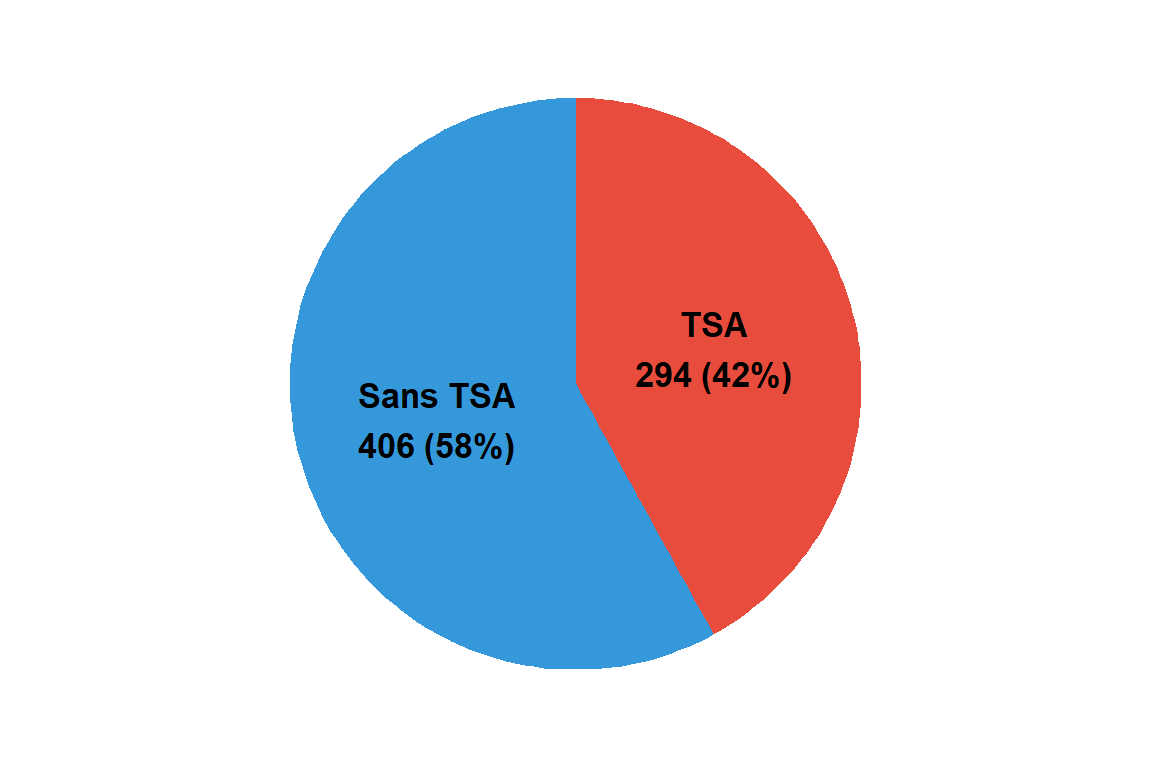
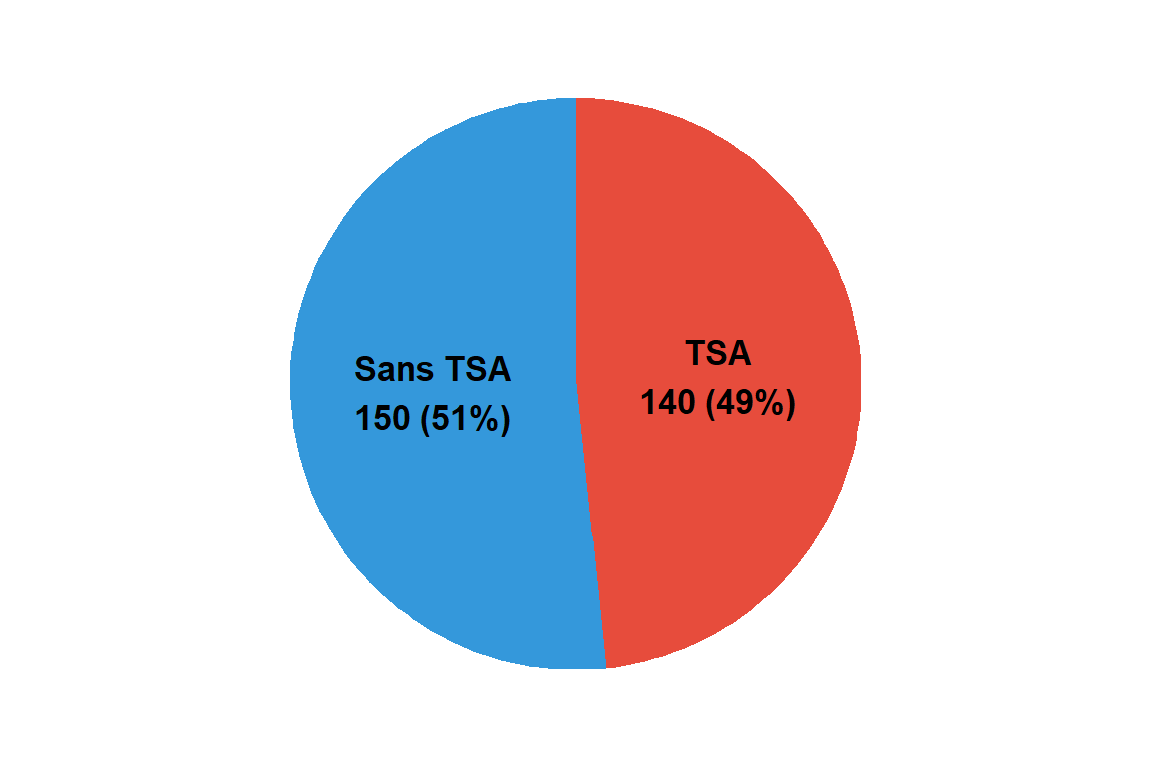
updates

Changed region(s): [[0.5, 0.5, 0.625, 0.875], [0.3125, 0.4375, 0.4688, 0.5938], [0.5312, 0.4062, 0.6875, 0.5625]]

diff --git a/docs/index.html b/docs/index.html
@@ -217,7 +217,7 @@ pre > code.sourceCode > span > a:first-child::before { text-decoration: underlin
 <section id="données-analysées" class="level3"><h3 class="anchored" data-anchor-id="données-analysées">📁 Données Analysées</h3>
 <ul>
 <li>
-<strong>688 observations</strong> après nettoyage</li>
+<strong>292 observations</strong> après nettoyage</li>
 <li>
 <strong>10 questions</strong> AQ-10 comportementales</li>
 <li>
@@ -345,7 +345,7 @@ pre > code.sourceCode > span > a:first-child::before { text-decoration: underlin
 </section><section id="rapport-complet" class="level3 g-col-12 g-col-md-3"><h3 class="anchored" data-anchor-id="rapport-complet"><a href="./rapport.html">📊 Rapport Complet</a></h3>
 <p>Documentation scientifique détaillée avec méthodologie, résultats et discussions.</p>
 </section><section id="présentation" class="level3 g-col-12 g-col-md-3"><h3 class="anchored" data-anchor-id="présentation"><a href="./presentation.html">🎤 Présentation</a></h3>
-<p>Slides professionnels (47 pages) pour présenter le projet.</p>
+<p>Slides professionnels (12 pages) pour présenter le projet.</p>
 </section><section id="ℹ-à-propos" class="level3 g-col-12 g-col-md-3"><h3 class="anchored" data-anchor-id="ℹ-à-propos"><a href="./about.html">ℹ À propos</a></h3>
 <p>Méthodologie, références bibliographiques et considérations éthiques.</p>
 </section>
@@ -906,7 +906,7 @@ pre > code.sourceCode > span > a:first-child::before { text-decoration: underlin
 <span id="cb1-29"><a href="#cb1-29" aria-hidden="true" tabindex="-1"></a>::: {.g-col-12 .g-col-md-6}</span>
 <span id="cb1-30"><a href="#cb1-30" aria-hidden="true" tabindex="-1"></a><span class="fu">### 📁 Données Analysées</span></span>
 <span id="cb1-31"><a href="#cb1-31" aria-hidden="true" tabindex="-1"></a></span>
-<span id="cb1-32"><a href="#cb1-32" aria-hidden="true" tabindex="-1"></a><span class="ss">- </span>**688 observations** après nettoyage</span>
+<span id="cb1-32"><a href="#cb1-32" aria-hidden="true" tabindex="-1"></a><span class="ss">- </span>**292 observations** après nettoyage</span>
 <span id="cb1-33"><a href="#cb1-33" aria-hidden="true" tabindex="-1"></a><span class="ss">- </span>**10 questions** AQ-10 comportementales</span>
 <span id="cb1-34"><a href="#cb1-34" aria-hidden="true" tabindex="-1"></a><span class="ss">- </span>**Variables démographiques** (âge, antécédents)</span>
 <span id="cb1-35"><a href="#cb1-35" aria-hidden="true" tabindex="-1"></a><span class="ss">- </span>**Classes équilibrées** : 42% TSA, 58% Sans TSA</span>
@@ -920,8 +920,8 @@ pre > code.sourceCode > span > a:first-child::before { text-decoration: underlin
 <span id="cb1-43"><a href="#cb1-43" aria-hidden="true" tabindex="-1"></a><span class="co"># Données de démonstration</span></span>
 <span id="cb1-44"><a href="#cb1-44" aria-hidden="true" tabindex="-1"></a>demo_data <span class="ot">&lt;-</span> <span class="fu">data.frame</span>(</span>
 <span id="cb1-45"><a href="#cb1-45" aria-hidden="true" tabindex="-1"></a>  <span class="at">Diagnostic =</span> <span class="fu">c</span>(<span class="st">"Sans TSA"</span>, <span class="st">"TSA"</span>),</span>
-<span id="cb1-46"><a href="#cb1-46" aria-hidden="true" tabindex="-1"></a>  <span class="at">Nombre =</span> <span class="fu">c</span>(<span class="dv">406</span>, <span class="dv">294</span>),</span>
-<span id="cb1-47"><a href="#cb1-47" aria-hidden="true" tabindex="-1"></a>  <span class="at">Pourcentage =</span> <span class="fu">c</span>(<span class="dv">58</span>, <span class="dv">42</span>)</span>
+<span id="cb1-46"><a href="#cb1-46" aria-hidden="true" tabindex="-1"></a>  <span class="at">Nombre =</span> <span class="fu">c</span>(<span class="dv">150</span>, <span class="dv">140</span>),</span>
+<span id="cb1-47"><a href="#cb1-47" aria-hidden="true" tabindex="-1"></a>  <span class="at">Pourcentage =</span> <span class="fu">c</span>(<span class="dv">51</span>, <span class="dv">49</span>)</span>
 <span id="cb1-48"><a href="#cb1-48" aria-hidden="true" tabindex="-1"></a>)</span>
 <span id="cb1-49"><a href="#cb1-49" aria-hidden="true" tabindex="-1"></a></span>
 <span id="cb1-50"><a href="#cb1-50" aria-hidden="true" tabindex="-1"></a><span class="fu">ggplot</span>(demo_data, <span class="fu">aes</span>(<span class="at">x =</span> <span class="st">""</span>, <span class="at">y =</span> Nombre, <span class="at">fill =</span> Diagnostic)) <span class="sc">+</span></span>
@@ -1072,7 +1072,7 @@ pre > code.sourceCode > span > a:first-child::before { text-decoration: underlin
 <span id="cb1-195"><a href="#cb1-195" aria-hidden="true" tabindex="-1"></a>::: {.g-col-12 .g-col-md-3}</span>
 <span id="cb1-196"><a href="#cb1-196" aria-hidden="true" tabindex="-1"></a><span class="fu">### [🎤 Présentation](presentation.qmd)</span></span>
 <span id="cb1-197"><a href="#cb1-197" aria-hidden="true" tabindex="-1"></a></span>
-<span id="cb1-198"><a href="#cb1-198" aria-hidden="true" tabindex="-1"></a>Slides professionnels (47 pages) pour présenter le projet.</span>
+<span id="cb1-198"><a href="#cb1-198" aria-hidden="true" tabindex="-1"></a>Slides professionnels (12 pages) pour présenter le projet.</span>
 <span id="cb1-199"><a href="#cb1-199" aria-hidden="true" tabindex="-1"></a>:::</span>
 <span id="cb1-200"><a href="#cb1-200" aria-hidden="true" tabindex="-1"></a></span>
 <span id="cb1-201"><a href="#cb1-201" aria-hidden="true" tabindex="-1"></a>::: {.g-col-12 .g-col-md-3}</span>

diff --git a/docs/about.html b/docs/about.html
@@ -349,7 +349,7 @@ pre > code.sourceCode > span > a:first-child::before { text-decoration: underlin
 <p></p><figure class="figure"><p></p>
 <div>
 <pre class="mermaid mermaid-js">flowchart TD
-    A[📥 Données Brutes&lt;br/&gt;704 observations] --&gt; B[🧹 Nettoyage&lt;br/&gt;-16 doublons]
+    A[📥 Données Brutes&lt;br/&gt;292 observations] --&gt; B[🧹 Nettoyage&lt;br/&gt;-16 doublons]
     B --&gt; C[🔧 Feature Engineering&lt;br/&gt;Scores par domaine]
     C --&gt; D[📊 Analyse Exploratoire&lt;br/&gt;Visualisations]
     D --&gt; E[✂ Split Train/Test&lt;br/&gt;70% / 30%]
@@ -444,7 +444,7 @@ pre > code.sourceCode > span > a:first-child::before { text-decoration: underlin
 <section id="processus-de-validation" class="level3">
 <h3 class="anchored" data-anchor-id="processus-de-validation">Processus de Validation</h3>
 <ol type="1">
-<li><strong>Nettoyage des données</strong> (n=688 après)</li>
+<li><strong>Nettoyage des données</strong> (n=290 après)</li>
 <li><strong>Split stratifié</strong> 70/30 (train/test)</li>
 <li><strong>Cross-validation</strong> 10-fold sur train</li>
 <li><strong>Optimisation</strong> des hyperparamètres (grid search)</li>
@@ -1340,7 +1340,7 @@ pre > code.sourceCode > span > a:first-child::before { text-decoration: underlin
 <span id="cb5-76"><a href="#cb5-76" aria-hidden="true" tabindex="-1"></a><span class="in">```{mermaid}</span></span>
 <span id="cb5-77"><a href="#cb5-77" aria-hidden="true" tabindex="-1"></a>%%| fig-width: <span class="dv">12</span></span>
 <span id="cb5-78"><a href="#cb5-78" aria-hidden="true" tabindex="-1"></a>flowchart TD</span>
-<span id="cb5-79"><a href="#cb5-79" aria-hidden="true" tabindex="-1"></a>    A[📥 Données Brutes&lt;br/&gt;<span class="dv">704</span> observations] --&gt; B[🧹 Nettoyage&lt;br/&gt;-<span class="dv">16</span> doublons]</span>
+<span id="cb5-79"><a href="#cb5-79" aria-hidden="true" tabindex="-1"></a>    A[📥 Données Brutes&lt;br/&gt;<span class="dv">292</span> observations] --&gt; B[🧹 Nettoyage&lt;br/&gt;-<span class="dv">16</span> doublons]</span>
 <span id="cb5-80"><a href="#cb5-80" aria-hidden="true" tabindex="-1"></a>    B --&gt; C[🔧 Feature Engineering&lt;br/&gt;Scores par domaine]</span>
 <span id="cb5-81"><a href="#cb5-81" aria-hidden="true" tabindex="-1"></a>    C --&gt; D[📊 Analyse Exploratoire&lt;br/&gt;Visualisations]</span>
 <span id="cb5-82"><a href="#cb5-82" aria-hidden="true" tabindex="-1"></a>    D --&gt; E[✂ Split Train/Test&lt;br/&gt;<span class="dv">70</span>% <span class="ot">/ 30%]</span></span>
@@ -1412,7 +1412,7 @@ pre > code.sourceCode > span > a:first-child::before { text-decoration: underlin
 <span id="cb5-148"><a href="#cb5-148" aria-hidden="true" tabindex="-1"></a></span>
 <span id="cb5-149"><a href="#cb5-149" aria-hidden="true" tabindex="-1"></a><span class="co">### Processus de Validation</span></span>
 <span id="cb5-150"><a href="#cb5-150" aria-hidden="true" tabindex="-1"></a></span>
-<span id="cb5-151"><a href="#cb5-151" aria-hidden="true" tabindex="-1"></a><span class="dv">1</span>.  *<span class="dt">*Nettoyage</span> des données*<span class="ot">*</span> (n=<span class="dv">688</span> après)</span>
+<span id="cb5-151"><a href="#cb5-151" aria-hidden="true" tabindex="-1"></a><span class="dv">1</span>.  *<span class="dt">*Nettoyage</span> des données*<span class="ot">*</span> (n=<span class="dv">290</span> après)</span>
 <span id="cb5-152"><a href="#cb5-152" aria-hidden="true" tabindex="-1"></a><span class="dv">2</span>.  *<span class="dt">*Split</span> stratifié*<span class="ot">*</span> <span class="dv">70</span>/<span class="dv">30</span> (train/test)</span>
 <span id="cb5-153"><a href="#cb5-153" aria-hidden="true" tabindex="-1"></a><span class="dv">3</span>.  *<span class="dt">*Cross</span>-validation*<span class="ot">*</span> <span class="dv">10</span>-fold sur train</span>
 <span id="cb5-154"><a href="#cb5-154" aria-hidden="true" tabindex="-1"></a><span class="dv">4</span>.  *<span class="dt">*Optimisation</span>*<span class="ot">*</span> des hyperparamètres (grid search)</span>
